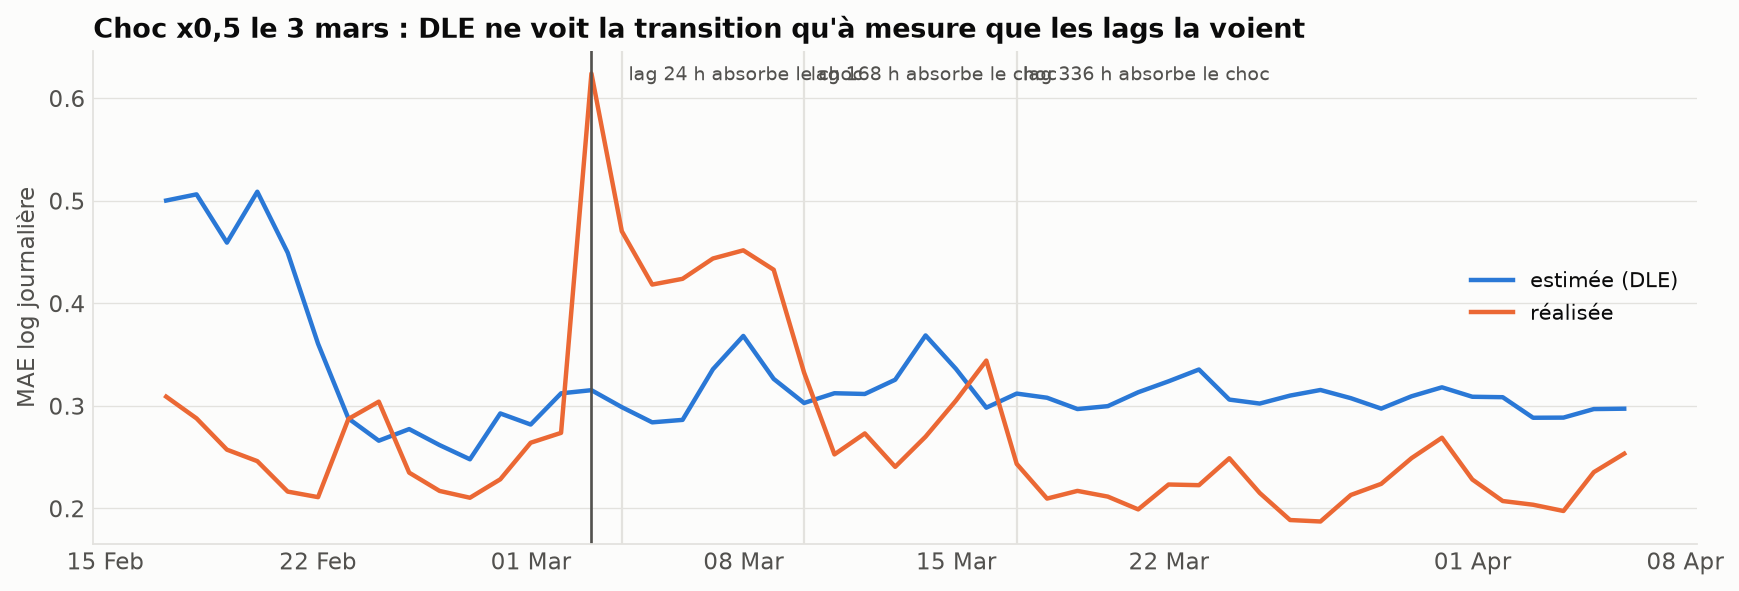
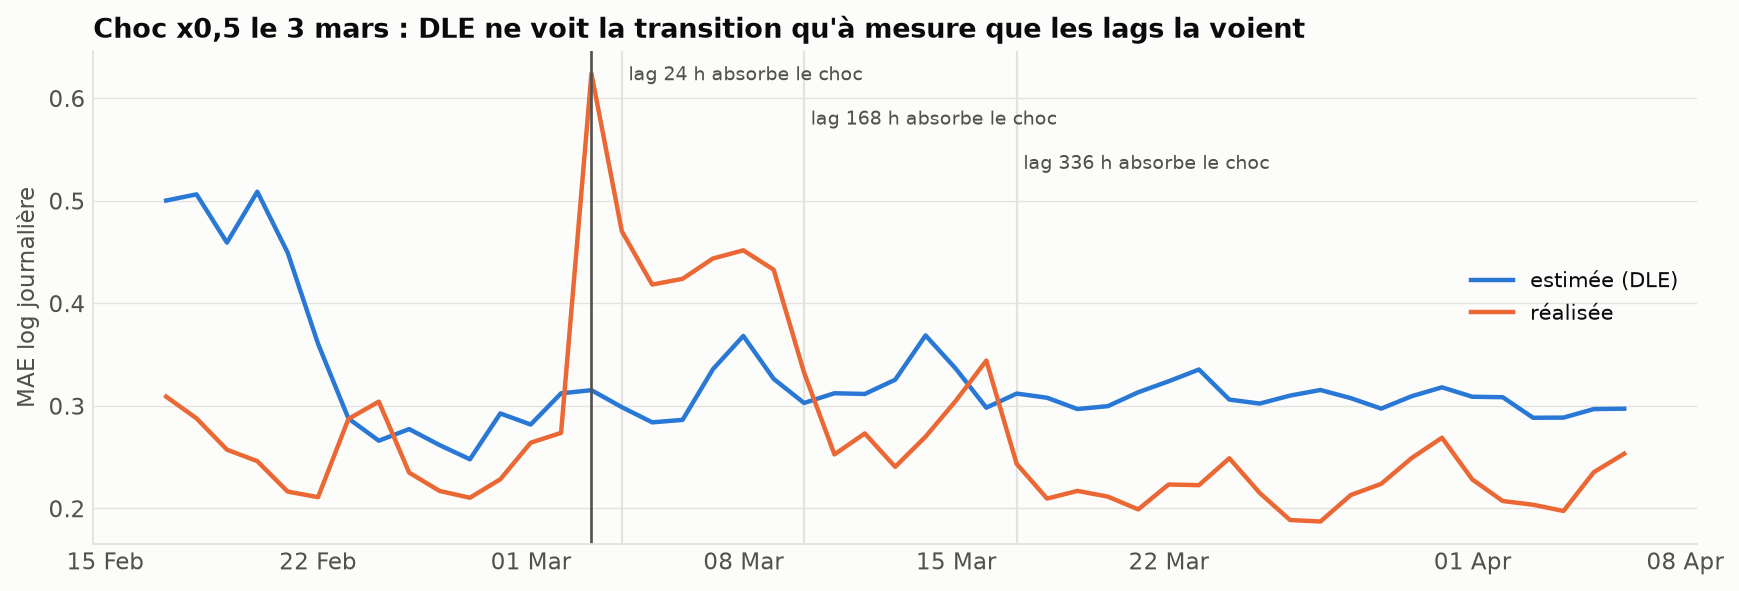
fix(figures): transition E3, annotations étagées

Changed region(s): [[0.4658, 0.0914, 0.7453, 0.1523], [0.59, 0.2437, 0.7142, 0.3046], [0.4658, 0.1827, 0.621, 0.2132]]

diff --git a/scripts/make_result_figures.py b/scripts/make_result_figures.py
@@ -496,12 +496,15 @@ def e3_transition() -> None:
     t = d[d["scenario"] == "choc propagé x0.5"]
     t = t[(t.index >= ONSET - pd.Timedelta(days=14)) & (t.index < ONSET + pd.Timedelta(days=35))]
     fig, ax = plt.subplots(figsize=(11, 3.8))
-    for k, lab in [(1, "lag 24 h"), (7, "lag 168 h"), (14, "lag 336 h")]:
+    # annotations étagées : les traits à J+1 et J+7 sont trop proches pour une seule ligne
+    for (k, lab), yf in zip(
+        [(1, "lag 24 h"), (7, "lag 168 h"), (14, "lag 336 h")], (0.97, 0.88, 0.79), strict=True
+    ):
         x = ONSET + pd.Timedelta(days=k)
         ax.axvline(x, color=viz.GRID, lw=1)
         ax.annotate(
             f"{lab} absorbe le choc",
-            (x, 0.97),
+            (x, yf),
             xycoords=("data", "axes fraction"),
             xytext=(3, 0),
             textcoords="offset points",
